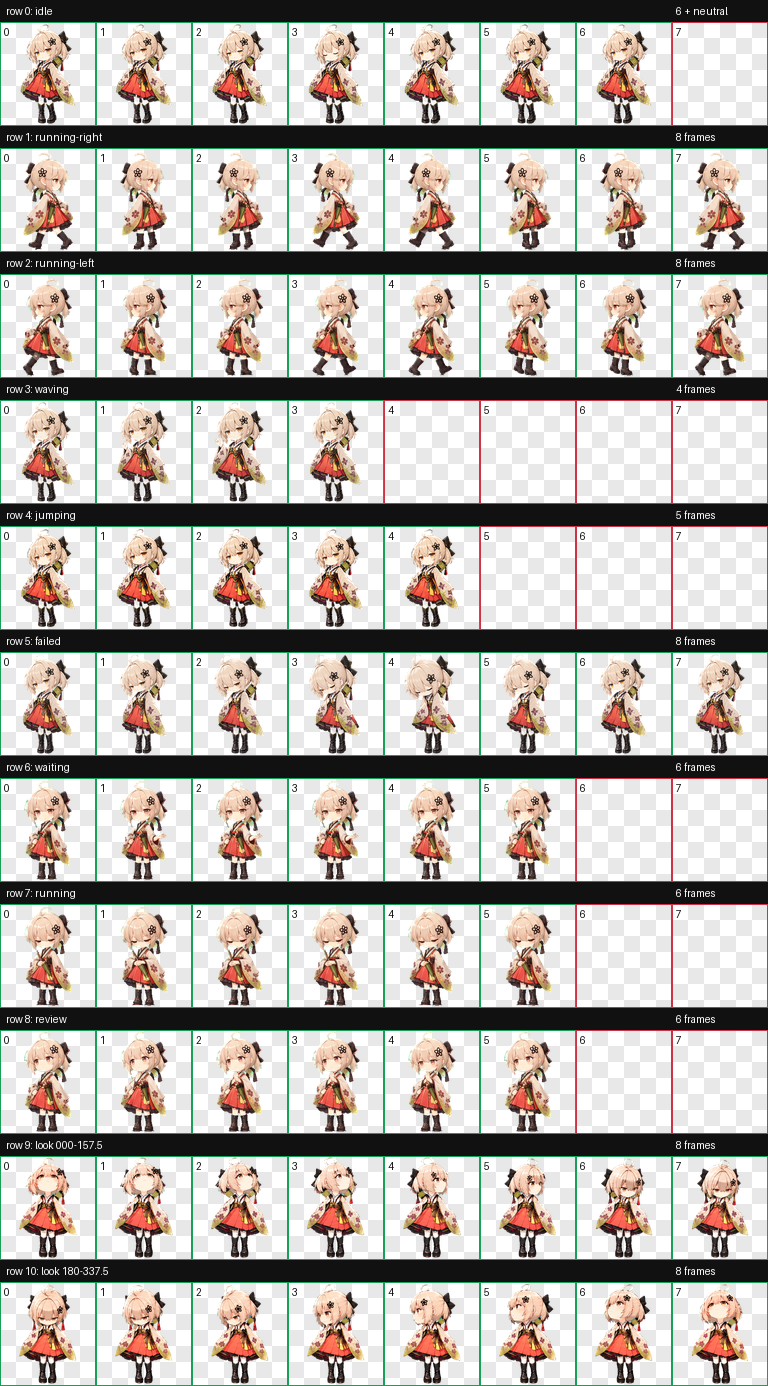
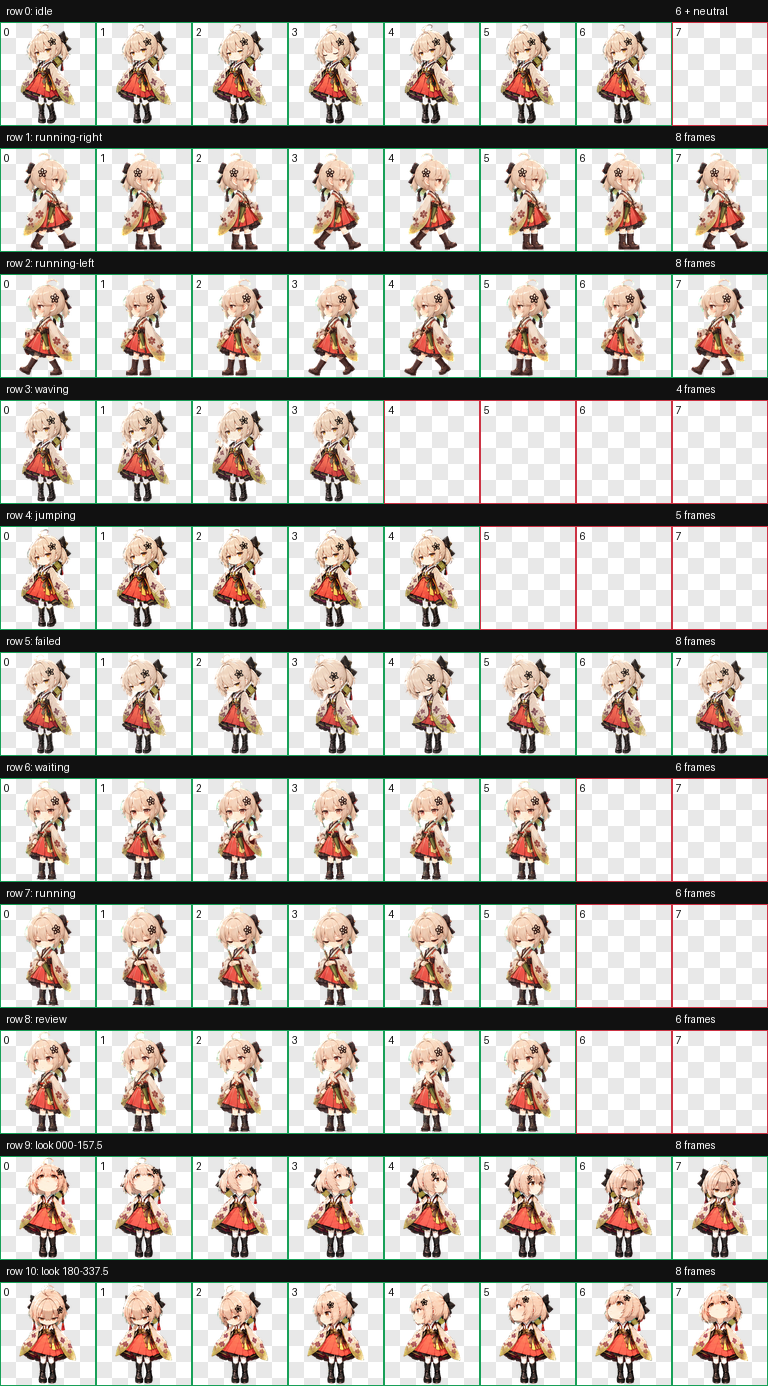
Align Biezhi boots with walking direction

diff --git a/scripts/assemble_biezhi_walk.py b/scripts/assemble_biezhi_walk.py
@@ -1,0 +1,122 @@
+"""Replace the incorrectly facing boots in the two Biezhi walk rows."""
+
+import argparse
+import json
+from pathlib import Path
+import statistics
+import subprocess
+import sys
+
+from PIL import Image, ImageChops, ImageDraw
+
+
+def cell(atlas, row, col):
+    return atlas.crop((col * 192, row * 208, (col + 1) * 192, (row + 1) * 208))
+
+
+def main():
+    parser = argparse.ArgumentParser(description=__doc__)
+    parser.add_argument("atlas", type=Path)
+    parser.add_argument("strip", type=Path)
+    parser.add_argument("output", type=Path)
+    parser.add_argument("--skill-scripts", type=Path, required=True)
+    args = parser.parse_args()
+    sys.path.insert(0, str(args.skill_scripts))
+    from despill_chroma_edges import decontaminate_image
+    from extract_strip_frames import (component_frame_groups, component_group_image,
+                                      remove_chroma_background)
+    from render_animation_previews import ROW_DURATIONS, save_preview
+
+    original = Image.open(args.atlas).convert("RGBA")
+    assert original.size == (1536, 2288)
+    key = (0, 255, 255)
+    source = remove_chroma_background(Image.open(args.strip).convert("RGBA"), key, 96)
+    shots = []
+    for row in range(2):
+        strip = source.crop((0, row * source.height // 2, source.width,
+                             (row + 1) * source.height // 2))
+        groups = component_frame_groups(strip, 4)
+        if groups is None:
+            raise ValueError(f"Expected four distinct poses in source row {row + 1}")
+        for group in groups:
+            pose = component_group_image(strip, group)
+            shots.append(pose.crop(pose.getbbox()))
+
+    idle = cell(original, 0, 0).getbbox()
+    assert idle is not None
+    baseline = idle[3]
+    scale = min((baseline - idle[1]) / statistics.median(p.height for p in shots),
+                (baseline - 3) / max(p.height for p in shots))
+    cleaned = []
+    for pose in shots:
+        img = pose.resize((round(pose.width * scale), round(pose.height * scale)),
+                          Image.Resampling.LANCZOS)
+        if img.width >= 184:
+            raise ValueError("Source pose would clip the cell")
+        frame = Image.new("RGBA", (192, 208))
+        frame.paste(img, ((192 - img.width) // 2, baseline - img.height))
+        frame, _ = decontaminate_image(frame, chroma_key=key, strength=1,
+                                       edge_radius=5, spill_tolerance=.15)
+        cleaned.append(frame)
+
+    # Preserve the original head and outfit. Match the revised leg roots to the
+    # old silhouette around the skirt hem before joining the lower half.
+    orders = (0, 1, 1, 2, 2, 3, 3, 0)
+    source_columns = (0, 1, 3, 5)
+    atlas = original.copy()
+    decisions = []
+    comparison = Image.new("RGB", (768, 880), "#3a434f")
+    label = ImageDraw.Draw(comparison)
+    for i, state in enumerate(("running-right", "running-left")):
+        sprites = []
+        row = i + 1
+        for pose, col in enumerate(source_columns):
+            before = cell(original, row, col)
+            new = cleaned[i * 4 + pose]
+            before_a = before.getchannel("A").point(lambda a: 255 if a > 128 else 0)
+            new_a = new.getchannel("A").point(lambda a: 255 if a > 128 else 0)
+            def seam_measure(y, offset):
+                old_band = before_a.crop((0, y - 2, 192, y + 2))
+                new_band = new_a.crop((-offset, y - 2, 192 - offset, y + 2))
+                return sum(ImageChops.difference(old_band, new_band).histogram()[1:])
+
+            score, _, _, y, dx = min(
+                (seam_measure(y, dx), abs(y - 169), abs(dx), y, dx)
+                for y in range(163, 178) for dx in range(-8, 9))
+            joined = before.copy()
+            joined.paste(new.crop((-dx, y, 192 - dx, 208)), (0, y))
+            sprites.append(joined)
+            decisions.append({"row": row, "pose": pose + 1, "seam_y": y,
+                              "offset_x": dx, "seam_alpha_difference": score})
+            for level, frame in enumerate((before, joined)):
+                py = (i * 2 + level) * 220
+                label.text((5, py + 2), f"{state} {'candidate' if level else 'original'}",
+                           fill="white")
+                comparison.paste(frame, (pose * 192, py + 12), frame)
+        for col, pose in enumerate(orders):
+            atlas.paste(sprites[pose], (col * 192, 208 * row))
+        save_preview([sprites[j] for j in orders], ROW_DURATIONS[state],
+                     args.output / f"{state}.gif")
+
+    sheet = args.output / "spritesheet.webp"
+    atlas.save(sheet, lossless=True, exact=True, method=6)
+    encoded = Image.open(sheet).convert("RGBA")
+    assert encoded.tobytes() == atlas.tobytes()
+    changed = [r for r in range(11) if encoded.crop((0, 208*r, 1536, 208*(r+1))).tobytes()
+               != original.crop((0, 208*r, 1536, 208*(r+1))).tobytes()]
+    assert changed == [1, 2]
+    comparison.save(args.output / "walk-comparison.png")
+    (args.output / "walk-foot-direction.json").write_text(
+        json.dumps({"changed_rows": changed, "baseline": baseline, "pose_joins": decisions},
+                   indent=2) + "\n", encoding="utf-8")
+    for script, options in (
+        ("validate_atlas.py", ["--require-v2", "--chroma-key", "#00FFFF",
+                               "--json-out", str(args.output / "validation.json")]),
+        ("make_contact_sheet.py", ["--output", str(args.output / "contact-sheet.png")]),
+    ):
+        subprocess.run([sys.executable, str(args.skill_scripts / script), str(sheet), *options],
+                       check=True, stdout=subprocess.DEVNULL)
+
+
+if __name__ == "__main__":
+    main()
